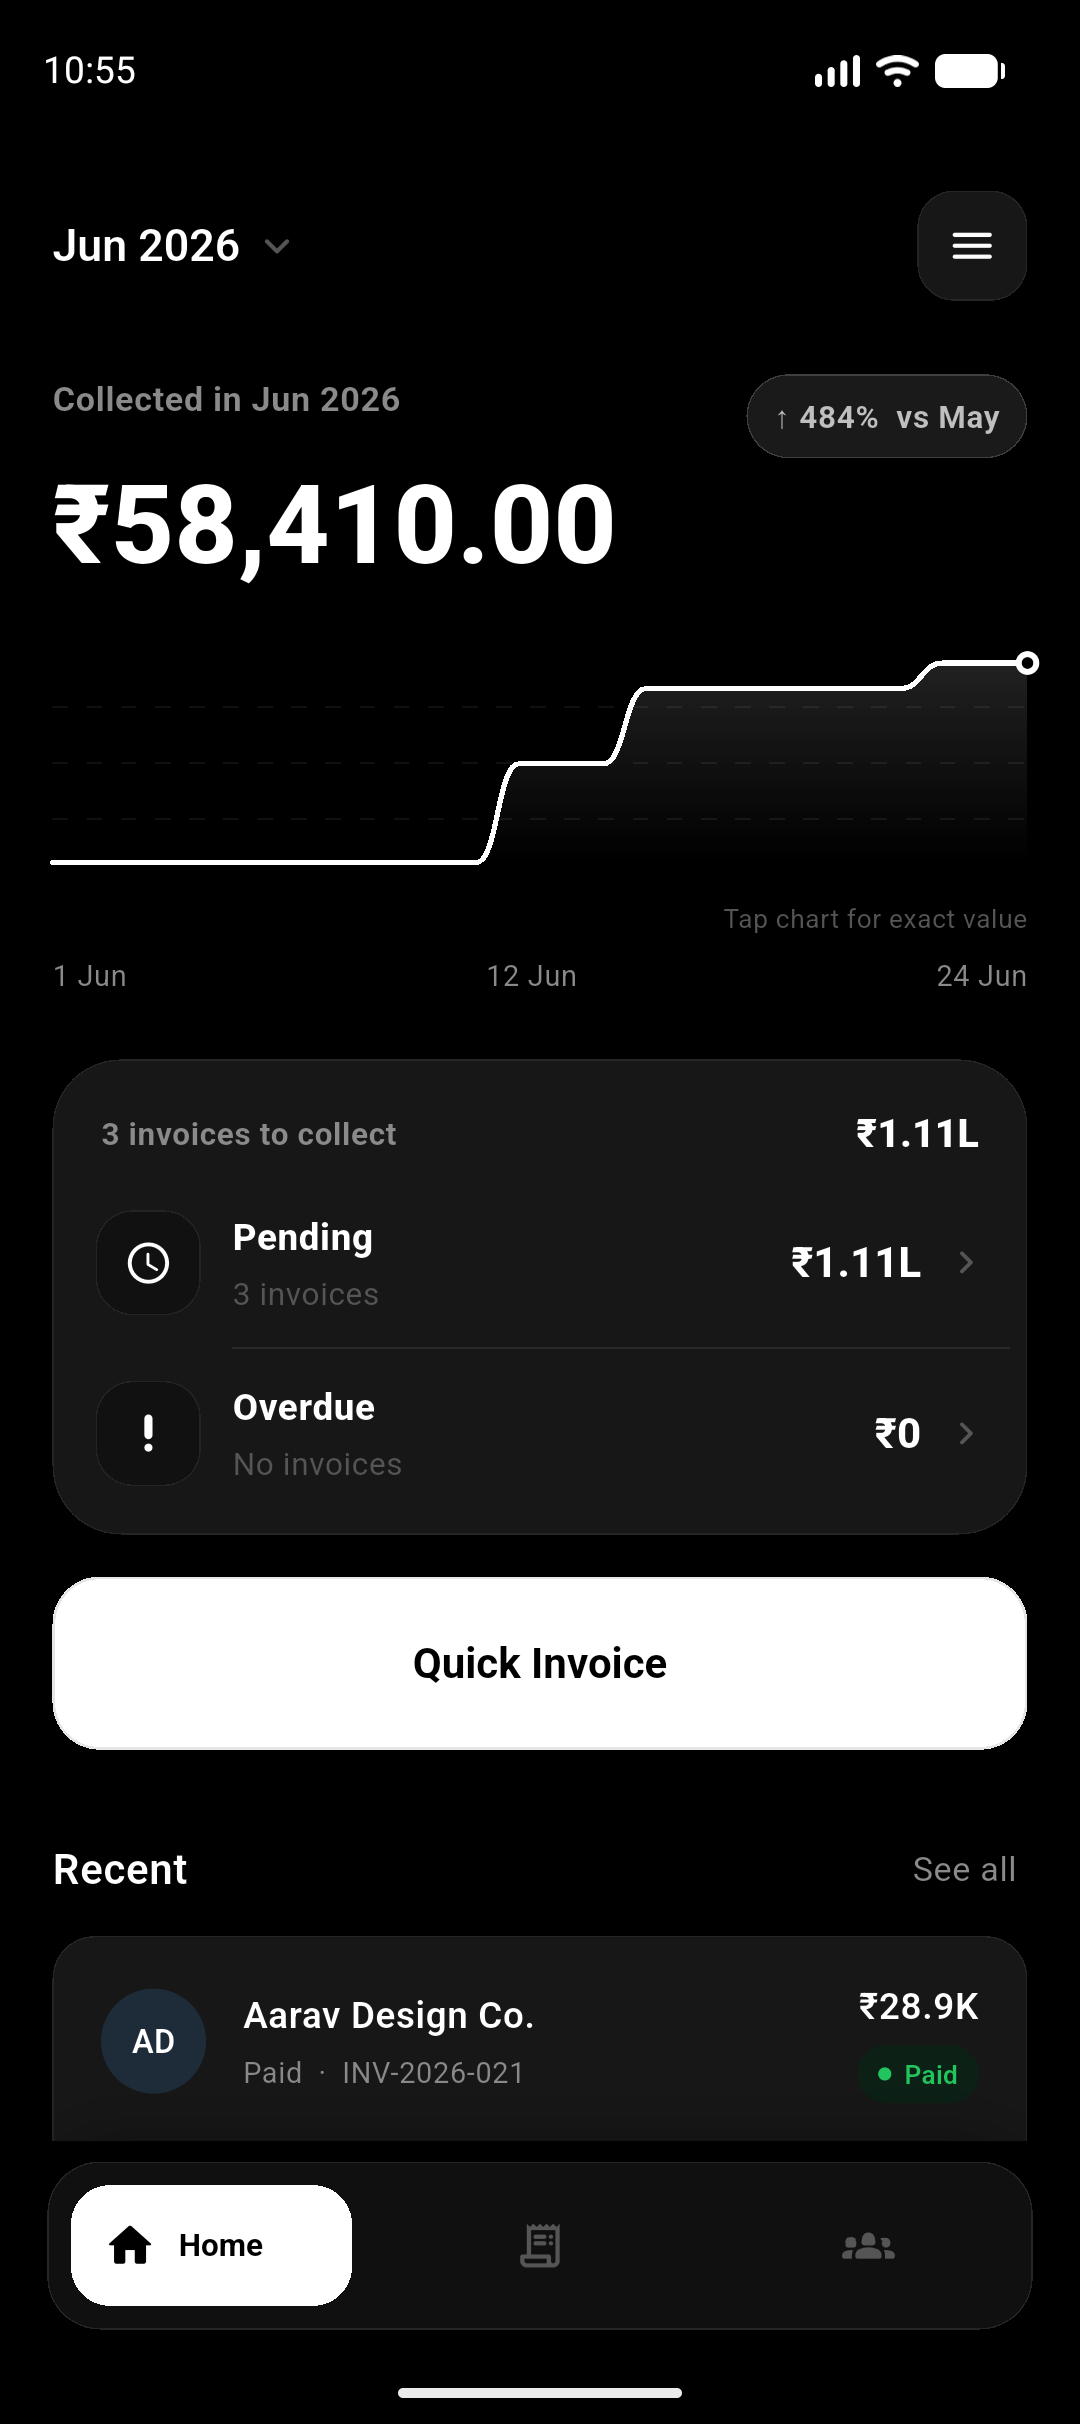
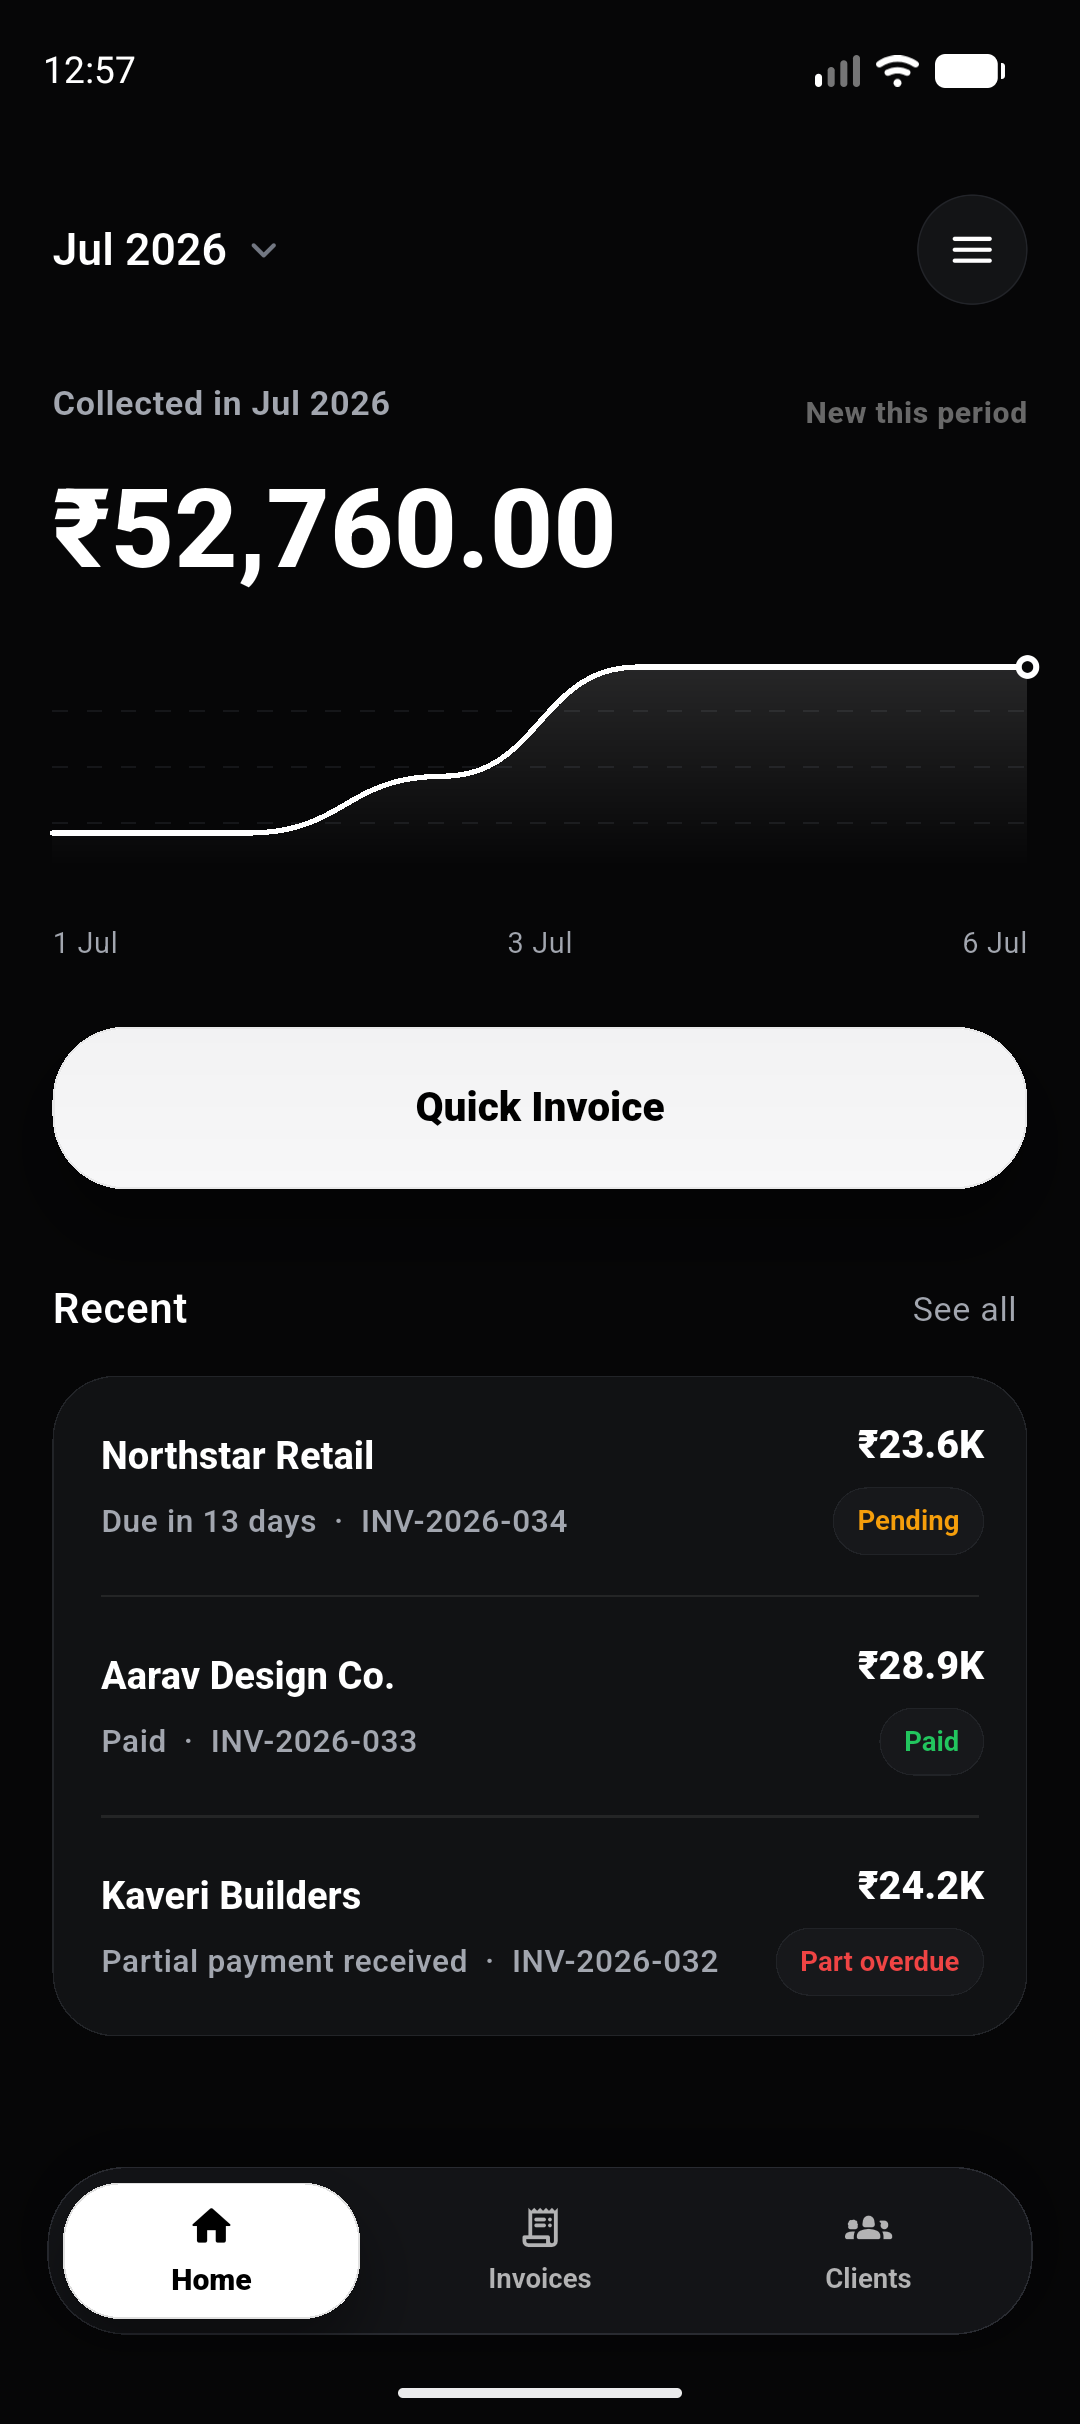
Polish Invoy v2 release presentation

diff --git a/lib/widgets.dart b/lib/widgets.dart
@@ -258,7 +258,9 @@ class StatusPill extends StatelessWidget {
 
   Color _fg(BuildContext context) {
     if (emphatic) return inv.statusColor;
-    if (inv.displayStatus == Status.overdue) return C.overdue;
+    if (inv.displayStatus != Status.draft || inv.isPartPaid) {
+      return inv.statusColor;
+    }
     return T.muted(context);
   }
 

diff --git a/README.md b/README.md
@@ -5,8 +5,8 @@ small businesses and freelancers create invoices, track payment status, manage
 clients, export backups, and generate shareable invoice PDFs.
 
 <p align="center">
-  <a href="https://github.com/akashsgowda/invoy/releases/latest/download/Invoy-v1.0.0.apk">
-    <img src="https://img.shields.io/badge/Download%20APK-Invoy%20v1.0.0-black?style=for-the-badge&logo=android" alt="Download Invoy APK">
+  <a href="https://github.com/akashsgowda/invoy/releases/latest/download/Invoy-v2.0.0.apk">
+    <img src="https://img.shields.io/badge/Download%20APK-Invoy%20v2.0.0-black?style=for-the-badge&logo=android" alt="Download Invoy APK">
   </a>
 </p>
 
@@ -14,15 +14,15 @@ clients, export backups, and generate shareable invoice PDFs.
   <b>Download the latest Android APK from GitHub Releases.</b>
 </p>
 
-**Download:** https://github.com/akashsgowda/invoy/releases/latest/download/Invoy-v1.0.0.apk
+**Download:** https://github.com/akashsgowda/invoy/releases/latest/download/Invoy-v2.0.0.apk
 
 ## Screenshots
 
 <p align="center">
-  <img src="docs/screenshots/dashboard-light.png" alt="Invoy dashboard in light theme" width="180">
-  <img src="docs/screenshots/invoices-light.png" alt="Invoy invoices list in light theme" width="180">
-  <img src="docs/screenshots/invoice-detail-light.png" alt="Invoy invoice detail in light theme" width="180">
   <img src="docs/screenshots/dashboard-dark.png" alt="Invoy dashboard in dark theme" width="180">
+  <img src="docs/screenshots/invoices-dark.png" alt="Invoy invoices list in dark theme" width="180">
+  <img src="docs/screenshots/clients-dark.png" alt="Invoy clients list in dark theme" width="180">
+  <img src="docs/screenshots/invoice-detail-dark.png" alt="Invoy invoice detail in dark theme" width="180">
 </p>
 
 The maintained platform target is Android. Generated builds, APKs, local app
@@ -31,10 +31,13 @@ control.
 
 ## Features
 
-- Create and manage invoices with line items, GST, discounts, due dates, and payment status.
+- Create and manage GST-ready invoices with line items, discounts, due dates, and payment status.
+- Support CGST/SGST and IGST, HSN/SAC codes, item units, reverse charge, and place of supply.
+- Save reusable invoice items for faster billing.
+- Track paid, unpaid, overdue, draft, and part-paid invoices.
+- Generate invoice PDFs and receipt PDFs for sharing or saving outside the app.
+- Export GST summary CSV files and restore app data using local backups.
 - Store clients and business profile details locally on the device.
-- Generate invoice PDFs for sharing or saving outside the app.
-- Export and restore app data using local backup files.
 - Optional UPI payment QR support for unpaid invoices.
 
 ## Development